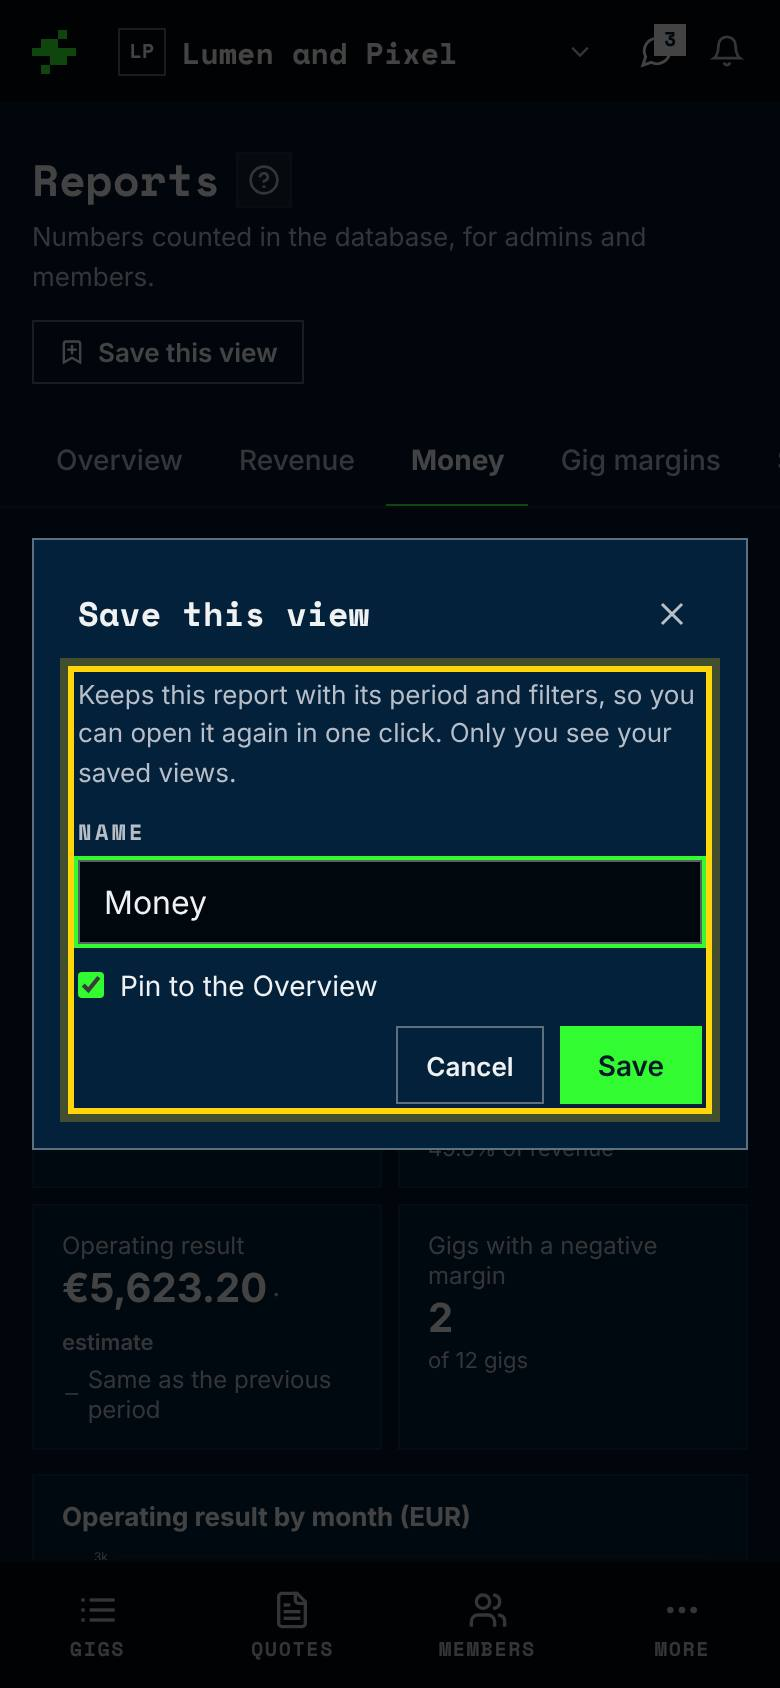
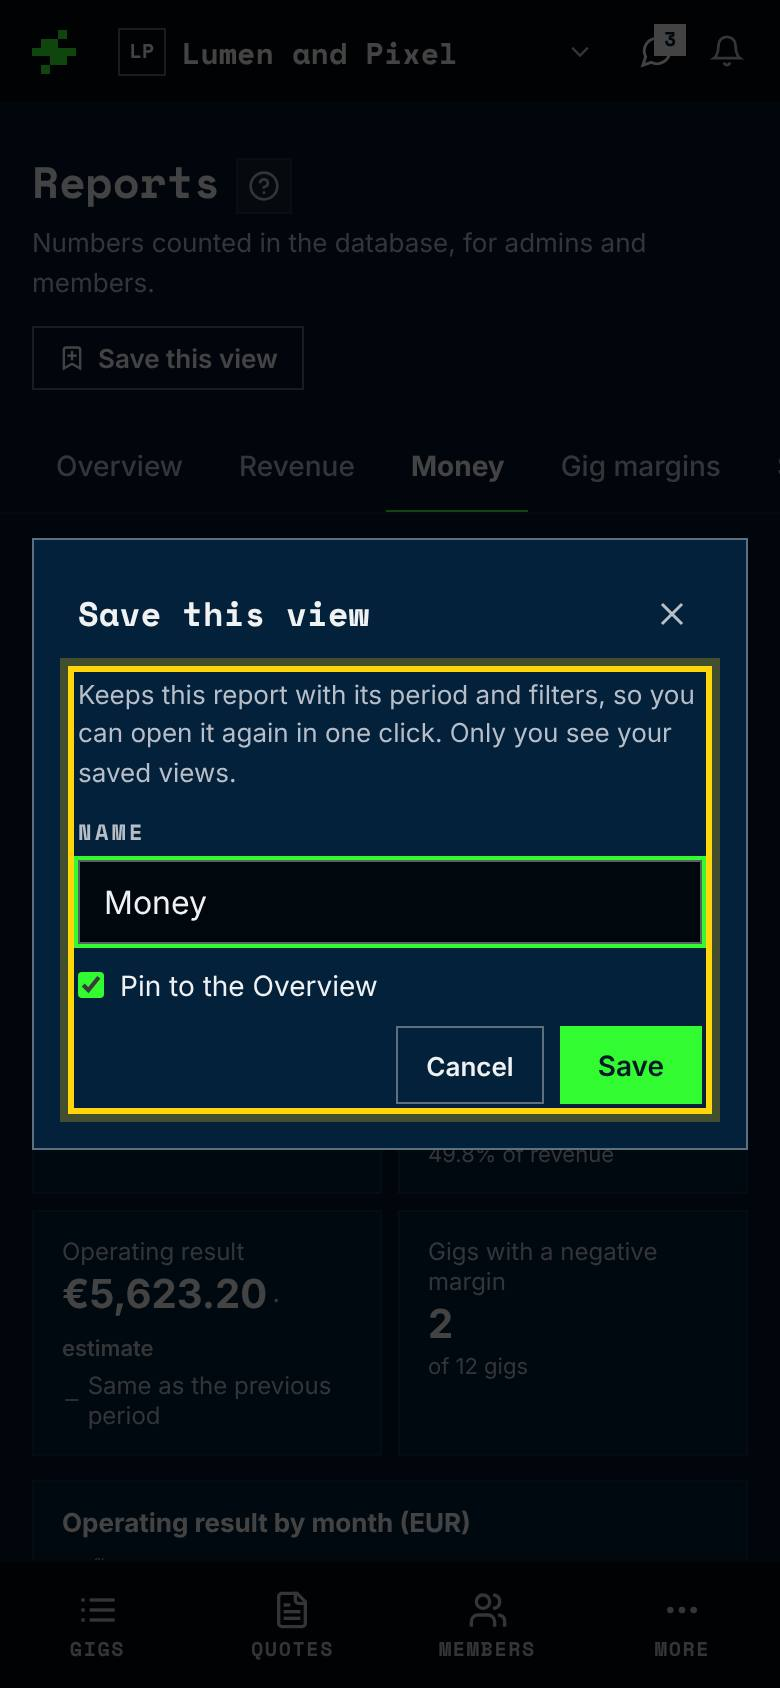
Reports: use PageHeader as is (ⓘ placement fixed by DR3) (WIP)
Claude-Session: https://claude.ai/code/session_01TrujDJaHkabpb66WSPeqRR

diff --git a/src/pages/ReportsPage.jsx b/src/pages/ReportsPage.jsx
@@ -5,7 +5,7 @@ import { useWorkspace } from '../lib/WorkspaceContext'
 import { useGigLabels } from '../lib/gigLabels'
 import { track } from '../lib/usage'
 import { useI18n } from '../i18n'
-import { btnPrimary, colors, AvxLoader, space, usePhone } from '../components/ui'
+import { btnPrimary, colors, AvxLoader, PageHeader, space, usePhone } from '../components/ui'
 import AppShell from '../components/shell/AppShell'
 import { PageHelp } from '../components/help/HelpParts'
 import { OverviewTiles, useOverview } from '../components/reports/OverviewTiles'
@@ -67,23 +67,11 @@ export default function ReportsPage() {
       <PrintStyles />
       <style>{TABS_CSS}</style>
       <div style={{ maxWidth: '960px', margin: '0 auto', padding: `${space[5]} var(--gutter) ${space[7]}`, display: 'flex', flexDirection: 'column', gap: space[4] }}>
-        {/* The page header (DESIGN.md rule 4): the title, one short line, the ⓘ. The ⓘ sits next to the
-            heading, not inside it, so the heading's name stays "Reports" */}
-        <header className="avx-page-head" style={{ marginBottom: 0 }}>
-          <div className="avx-page-head__text">
-            <div style={{ display: 'flex', alignItems: 'center', gap: space[2] }}>
-              <h1 className="avx-page-head__title">{title}</h1>
-              <span className="no-print"><PageHelp page="org-reports" /></span>
-            </div>
-            <p className="avx-page-head__line">{phone || !org?.name ? t('reports.intro') : `${org.name} · ${t('reports.intro')}`}</p>
-          </div>
-          {/* K9: save this report with its filters (pinned ones show on the Overview) */}
-          {tab !== 'overview' && (
-            <div className="avx-page-head__actions no-print">
-              <SaveViewButton orgId={orgId} tab={tab} params={params} onSaved={saved.add} />
-            </div>
-          )}
-        </header>
+        {/* The page header (DESIGN.md rule 4): the title, one short line, the ⓘ; K9's Save view on the right */}
+        <PageHeader className="rp-head" title={title}
+          help={<span className="no-print"><PageHelp page="org-reports" /></span>}
+          line={phone || !org?.name ? t('reports.intro') : `${org.name} · ${t('reports.intro')}`}
+          primary={tab !== 'overview' && <span className="no-print"><SaveViewButton orgId={orgId} tab={tab} params={params} onSaved={saved.add} /></span>} />
 
         {/* The report tabs: the chosen one is the text colour with a 2px accent bar, not a fill (rule 3) */}
         <nav className="no-print rp-tabs" aria-label={t('reports.tabs')}>
@@ -130,6 +118,7 @@ const sectionTitle = { font: '700 16px/24px var(--font-mono)', margin: 0 }
 
 // Report tabs: one row that scrolls sideways on a phone, a 2px accent bar under the chosen one
 const TABS_CSS = `
+  .rp-head { margin-bottom: 0; }
   .rp-tabs { display: flex; gap: var(--space-1); overflow-x: auto; scrollbar-width: none; border-bottom: 1px solid var(--line);
     margin: 0 calc(-1 * var(--gutter)); padding: 0 var(--gutter); }
   .rp-tabs::-webkit-scrollbar { display: none; }

diff --git a/docs/DESIGN_REFRESH.md b/docs/DESIGN_REFRESH.md
@@ -90,7 +90,7 @@ The same rules as the home, applied to the denser screens; no new pieces, only t
 | --- | --- |
 | **Quote editor** (`QuoteEditorPage.jsx`) | Its own sticky header (the title is an input, so not `PageHeader`), with **Send to client** as the one green button, **Preview & print** and **Create gig / Open gig** beside it on a computer, and everything else in `MoreMenu`: Fill gig from quote, Availability, Versions, Duplicate, Save as template, Delete. On phone the two secondaries join ⋯. Details (`QuoteDetails.jsx`) keeps its fieldsets for the form semantics but they have no border: a 16px heading and fields, 40/48 px apart. Summary rows are hairline rows. In a phase, sections of lines are no longer panels; the 32px line grid stays compact (8px gaps) |
 | **Inventory item** (`InventoryItemPage.jsx`) | `PageHeader` (category · kind above, code and tracking as the line; Edit and QR labels secondary, Archive / Restore in ⋯), then a `Stack gap="section"` of: the facts as a plain `dl`, the money numbers, Stock (a `Section` with Count and Add stock / Add units on its right), contents, maintenance, messages, bookings and history. Stock rows and unit rows are hairline rows; a location row shows Move and Remove and puts Count in its own ⋯; a scanned unit gets the selection wash and a 2px bar |
-| **Reports** (`ReportsPage.jsx`) | Header built from the `.avx-page-head` classes with the ⓘ beside the heading, not inside it (the heading's name stays "Reports"); the tabs are one row (sideways scroll on phone) with a 2px accent bar under the chosen tab instead of a green fill; Save view sits in the header; the Overview's sections are 40/48 px apart with 16px headings. What loads, and when, is unchanged (#114) |
+| **Reports** (`ReportsPage.jsx`) | `PageHeader` (Save view as its action); the tabs are one row (sideways scroll on phone) with a 2px accent bar under the chosen tab instead of a green fill; Save view sits in the header; the Overview's sections are 40/48 px apart with 16px headings. What loads, and when, is unchanged (#114) |
 | **Settings** (`SettingsPage.jsx`) and **organisation settings** (`OrgSettingsModal.jsx` and its `Org*Settings` parts) | Groups are separated by space (40/48 px) instead of rules; organisation sections have 16px headings instead of small capitals; the settings buttons are plain (no green wash); the open section in the list is marked by a 2px bar |
 | **Import** (`ImportPage.jsx`) | `PageHeader`; the steps are words with a 2px bar under the current one; the switch checklist, the kinds to import, the column matching and Earlier imports are rows with hairlines on the page ground, not boxes; the check step's counts are big numbers without boxes |
 
